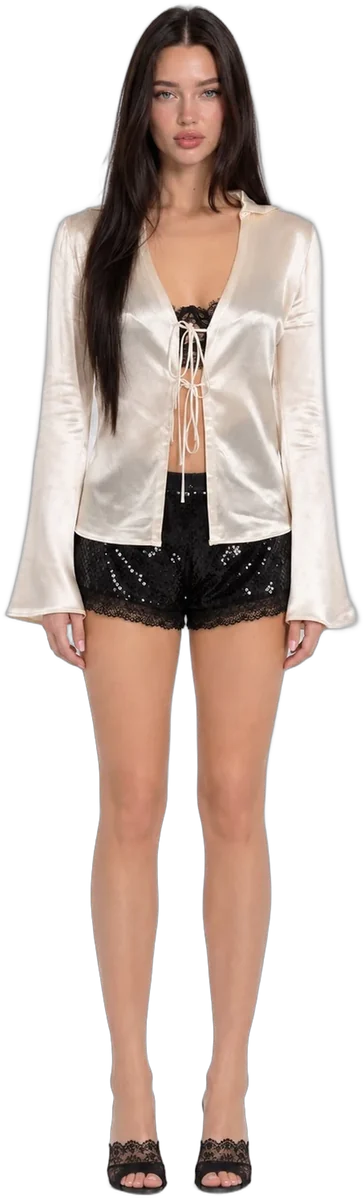
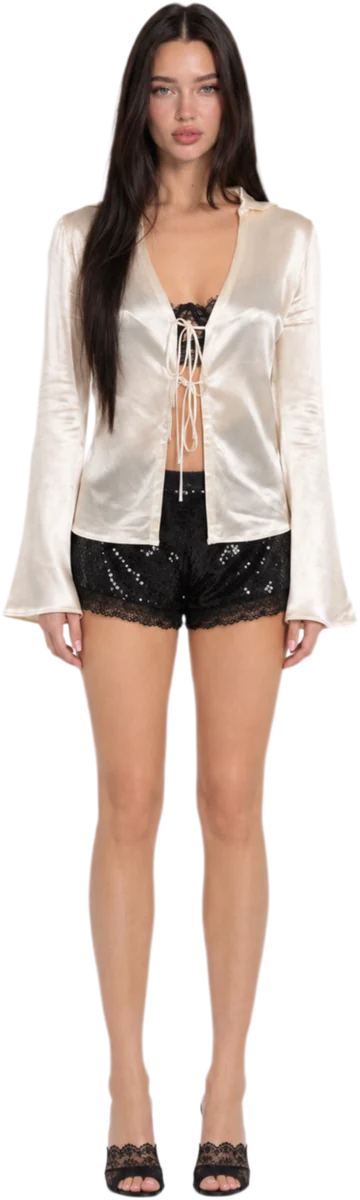
New Grey Lace Jeans and Love & Authenticity Tee; new LOOK 1 (tee + lace jeans) and four more outfits; runway gets the transparent outfit photos
Claude-Session: https://claude.ai/code/session_01S9cKy5g1AwDjzfqRU8tU8k

diff --git a/assets/catalog.js b/assets/catalog.js
@@ -36,7 +36,7 @@ window.BYMARCCC_PRODUCT_DATA = /*BEGIN-JSON*/{
   "collections": [{"key":"denim","label":"DENIM"},{"key":"tops","label":"TOPS"},{"key":"bottoms","label":"BOTTOMS"},{"key":"sales","label":"SALES"},{"key":"accessories","label":"ACCESSORIES"},{"key":"looks","label":"LOOKBOOK"}],
   "womenCollections": [{"key":"tops","label":"TOPS"},{"key":"bottoms","label":"BOTTOMS"},{"key":"accessories","label":"ACCESSORIES"},{"key":"sales","label":"SALES"},{"key":"looks","label":"LOOKBOOK"}],
   "customizeCollections": [{"key":"bags","label":"BAGS"}],
-  "womenFeatured": {"tops":["w-burgundy-baby-top","w-delulu-blazer-2","w-satin-shirt","w-sporty-top-ivory","w-black-windbreaker","w-burgundy-burberry-windbreaker","w-tiramisu-hoodie-black","w-tiramisu-hoodie-burgundy","w-black-logo-windbreaker","w-white-logo-windbreaker","w-burgundy-long-sleeve","w-logo-vest","w-tiramisu-hoodie-white","w-tiramisu-hoodie-grey","w-skyblue-hoodie","w-burgundy-zip-hoodie","w-tiramisu-hoodie-pink","w-sporty-top","w-white-baby-top","w-blue-zip-hoodie","w-hot-pink-zip-hoodie","w-red-zip-hoodie","w-pink-zip-hoodie","w-muse-blazer","w-hg-delulu-blazer","w-fuchsia-baby-top","w-blue-baby-top","w-red-baby-top","w-white-baby-top-1","w-pink-baby-top","w-no-bra-tank-top"],"bottoms":["w-sequin-lace-short","w-logo-leggings","w-mini-bag-jeans-blackwash-black","w-mini-bag-jeans-burgundy","w-lace-jean","w-transparent-jean","w-black-wind-pants","w-burgundy-wind-pants","w-grey-pants","w-pink-pants","w-logo-flare-jeans","w-logo-flare-leggings","w-walking-art-black-jeans","w-mini-bag-jeans-blackwash-burgundy","w-mini-bag-jeans-black","w-red-pants","w-black-pants"],"jackets":["w-white-logo-windbreaker","w-black-logo-windbreaker"],"accessories":["w-white-shoulder-bag","w-burgundy-shoulder-bag"]},
+  "womenFeatured": {"tops":["w-love-authenticity-tee","w-burgundy-baby-top","w-delulu-blazer-2","w-satin-shirt","w-sporty-top-ivory","w-black-windbreaker","w-burgundy-burberry-windbreaker","w-tiramisu-hoodie-black","w-tiramisu-hoodie-burgundy","w-black-logo-windbreaker","w-white-logo-windbreaker","w-burgundy-long-sleeve","w-logo-vest","w-tiramisu-hoodie-white","w-tiramisu-hoodie-grey","w-skyblue-hoodie","w-burgundy-zip-hoodie","w-tiramisu-hoodie-pink","w-sporty-top","w-white-baby-top","w-blue-zip-hoodie","w-hot-pink-zip-hoodie","w-red-zip-hoodie","w-pink-zip-hoodie","w-muse-blazer","w-hg-delulu-blazer","w-fuchsia-baby-top","w-blue-baby-top","w-red-baby-top","w-white-baby-top-1","w-pink-baby-top","w-no-bra-tank-top"],"bottoms":["w-sequin-lace-short","w-logo-leggings","w-mini-bag-jeans-blackwash-black","w-mini-bag-jeans-burgundy","w-lace-jean","w-transparent-jean","w-black-wind-pants","w-burgundy-wind-pants","w-grey-pants","w-pink-pants","w-logo-flare-jeans","w-logo-flare-leggings","w-walking-art-black-jeans","w-mini-bag-jeans-blackwash-burgundy","w-mini-bag-jeans-black","w-red-pants","w-black-pants"],"jackets":["w-white-logo-windbreaker","w-black-logo-windbreaker"],"accessories":["w-white-shoulder-bag","w-burgundy-shoulder-bag"]},
   "tryOnGarments": {"black-baby-top":{"type":"womens_baby_top","label":"women's black baby top: short, fitted, short-sleeve black cotton top with a fine rib, round neck; the hem sits slightly above the belly button","category":"tops","colour":"black","views":{"front":"assets/try-on/black-baby-top/garment.png"},"fitReference":"assets/try-on/black-baby-top/fit-reference.jpg","print":{"placement":"centred on the chest, a little below the neckline","width":0.3}}},
   "products": {
 
@@ -970,6 +970,11 @@ window.BYMARCCC_PRODUCT_DATA = /*BEGIN-JSON*/{
     "look-w14-art-set": {"gender": "women", "id": "bymarccc:look-w14-art-set", "title": "LOOK 15 — ART SET", "price": 700, "salePrice": 600, "currency": "RON", "cut": "Baby top + Art jeans", "collections": ["looks"], "details": ["Art Black Baby Top + Art Jean", "100% organic cotton", "700 RON apart, 600 RON as a look", "All clothing is custom made."], "description": "The Art Black Baby Top and the Art Jean together. You pay less than buying them apart.", "unavailable": [], "colours": [{"id": "black", "name": "Black", "hex": "#111111"}], "chart": ["XS-S", "M-L"], "gallery": [{"src":"assets/img/gallery/w-art-jean-front-a411b6ad.webp","w":1024,"h":1534}], "lookNo": 15, "lookCover": {"src":"assets/img/gallery/w-art-jean-front-a411b6ad.webp","w":1024,"h":1534}, "lookItems": ["w-art-jean", "w-white-baby-top"], "lookNames": {"w-white-baby-top": "Art Black Baby Top"}, "needsBody": true},
     "look-w15-crochet-set": {"gender": "women", "id": "bymarccc:look-w15-crochet-set", "title": "LOOK 16 — CROCHET SET", "price": 700, "salePrice": 600, "currency": "RON", "cut": "Baby top + Crochet jeans", "collections": ["looks"], "details": ["Black Baby Top + Crochet Jeans", "100% organic cotton", "700 RON apart, 600 RON as a look", "All clothing is custom made."], "description": "The Black Baby Top and the Crochet Jeans together. You pay less than buying them apart.", "unavailable": [], "colours": [{"id": "black", "name": "Black", "hex": "#111111"}], "chart": ["XS-S", "M-L"], "gallery": [{"src":"assets/img/gallery/w-crochet-jeans-new-1-fa9b1147.webp","w":1024,"h":1534},{"src":"assets/img/gallery/w-crochet-jeans-new-2-ba4922e5.webp","w":1024,"h":1534},{"src":"assets/img/gallery/w-crochet-jeans-new-3-52e6775b.webp","w":1024,"h":1534},{"src":"assets/img/gallery/w-crochet-jeans-new-4-4d833db9.webp","w":1024,"h":1534},{"src":"assets/img/gallery/w-crochet-jeans-new-5-1ebdc22b.webp","w":1024,"h":1534}], "lookNo": 16, "lookCover": {"src":"assets/img/gallery/w-crochet-jeans-new-1-fa9b1147.webp","w":1024,"h":1534}, "lookItems": ["w-crochet-jeans", "w-white-baby-top"], "needsBody": true},
     "look-w16-satin-set": {"gender": "women", "id": "bymarccc:look-w16-satin-set", "title": "LOOK 1 — SATIN SET", "price": 650, "salePrice": 550, "currency": "RON", "cut": "Satin shirt + Sequin lace shorts", "collections": ["looks"], "details": ["Satin Shirt + Sequin Lace Short", "650 RON apart, 550 RON as a look", "All clothing is custom made."], "description": "The Satin Shirt and the Sequin Lace Short together. You pay less than buying them apart.", "unavailable": [], "colours": [{"id": "ivory", "name": "Ivory", "hex": "#efe6d3"}], "chart": ["XS-S", "M-L"], "gallery": [{"src":"assets/img/gallery/w-satin-shirt-3-51765c49.webp","w":1024,"h":1534},{"src":"assets/img/gallery/w-satin-shirt-1-5c78e8d9.webp","w":1024,"h":1534},{"src":"assets/img/gallery/w-satin-shirt-5-af82fd7c.webp","w":1024,"h":1534}], "lookNo": 1, "lookCover": {"src":"assets/img/gallery/w-satin-shirt-3-51765c49.webp","w":1024,"h":1534}, "lookItems": ["w-satin-shirt", "w-sequin-lace-short"], "needsBody": true},
+    "look-w18-love-authenticity-set": {"gender": "women", "id": "bymarccc:look-w18-love-authenticity-set", "title": "LOOK 99 — LOVE & AUTHENTICITY SET", "price": 750, "salePrice": 650, "currency": "RON", "cut": "Love & Authenticity Tee + Grey Lace Jeans", "collections": ["looks"], "details": ["Love & Authenticity Tee + Grey Lace Jeans", "750 RON apart, 650 RON as a look", "All clothing is custom made."], "description": "The Love & Authenticity Tee and the Grey Lace Jeans together. You pay less than buying them apart.", "unavailable": [], "colours": [{"id": "grey", "name": "Grey", "hex": "#8a8a8a"}], "chart": ["XS-S", "M-L"], "gallery": [{"src": "assets/img/gallery/w-grey-lace-jeans-1-d728b88c.webp", "w": 1024, "h": 1534}, {"src": "assets/img/gallery/w-grey-lace-jeans-2-04087018.webp", "w": 1024, "h": 1534}], "lookNo": 99, "lookCover": {"src": "assets/img/gallery/w-grey-lace-jeans-1-d728b88c.webp", "w": 1024, "h": 1534}, "lookItems": ["w-love-authenticity-tee", "w-grey-lace-jean"], "needsBody": true},
+    "look-w19-black-leggings-set": {"gender": "women", "id": "bymarccc:look-w19-black-leggings-set", "title": "LOOK 99 — BLACK LEGGINGS SET", "price": 500, "salePrice": 400, "currency": "RON", "cut": "Black Tee + Logo Leggings", "collections": ["looks"], "details": ["Black Tee + Logo Leggings", "500 RON apart, 400 RON as a look", "All clothing is custom made."], "description": "The Black Tee and the Logo Leggings together. You pay less than buying them apart.", "unavailable": [], "colours": [{"id": "black", "name": "Black", "hex": "#111111"}], "chart": ["XS-S", "M-L"], "gallery": [{"src": "assets/img/gallery/look-w19-black-leggings-cover-af71b04d.webp", "w": 1024, "h": 1534}, {"src": "assets/img/gallery/w-logo-leggings-new-1-4748665d.webp", "w": 1024, "h": 1534}, {"src": "assets/img/gallery/w-logo-leggings-side-9f830748.webp", "w": 1024, "h": 1534}], "lookNo": 99, "lookCover": {"src": "assets/img/gallery/look-w19-black-leggings-cover-af71b04d.webp", "w": 1024, "h": 1534}, "lookItems": ["w-black-tee", "w-logo-leggings"], "needsBody": true, "lookDesign": {"w-black-tee": "Logo"}, "lookNames": {"w-black-tee": "Logo Black Tee"}},
+    "look-w20-walking-art-blue-set": {"gender": "women", "id": "bymarccc:look-w20-walking-art-blue-set", "title": "LOOK 99 — WALKING ART BLUE SET", "price": 649, "salePrice": 549, "currency": "RON", "cut": "White Baby Top + Walking Art Blue Jeans", "collections": ["looks"], "details": ["White Baby Top + Walking Art Blue Jeans", "649 RON apart, 549 RON as a look", "All clothing is custom made."], "description": "The White Baby Top and the Walking Art Blue Jeans together. You pay less than buying them apart.", "unavailable": [], "colours": [{"id": "blue", "name": "Blue", "hex": "#3b6fb6"}], "chart": ["XS-S", "M-L"], "gallery": [{"src": "assets/img/gallery/look-w20-walking-art-blue-cover-94d4c30a.webp", "w": 1024, "h": 1534}, {"src": "assets/img/gallery/w-walking-art-blue-1-88c048e1.webp", "w": 1024, "h": 1534}, {"src": "assets/img/gallery/w-walking-art-blue-2-54c0c482.webp", "w": 1024, "h": 1534}], "lookNo": 99, "lookCover": {"src": "assets/img/gallery/look-w20-walking-art-blue-cover-94d4c30a.webp", "w": 1024, "h": 1534}, "lookItems": ["w-white-baby-top-1", "w-walking-art-blue-jeans"], "needsBody": true, "lookDesign": {"w-white-baby-top-1": "Art"}, "lookNames": {"w-white-baby-top-1": "Art White Baby Top"}},
+    "look-w21-ivory-sporty-set": {"gender": "women", "id": "bymarccc:look-w21-ivory-sporty-set", "title": "LOOK 99 — IVORY SPORTY SET", "price": 550, "salePrice": 450, "currency": "RON", "cut": "Sporty Jacket + Logo Flare Leggings", "collections": ["looks"], "details": ["Sporty Jacket + Logo Flare Leggings", "550 RON apart, 450 RON as a look", "All clothing is custom made."], "description": "The Sporty Jacket and the Logo Flare Leggings together. You pay less than buying them apart.", "unavailable": [], "colours": [{"id": "ivory", "name": "Ivory", "hex": "#efe6d3"}], "chart": ["XS-S", "M-L"], "gallery": [{"src": "assets/img/gallery/look-w21-ivory-sporty-cover-d75fb23d.webp", "w": 1024, "h": 1534}, {"src": "assets/img/gallery/w-sporty-ivory-new-1-7898d2a5.webp", "w": 1024, "h": 1534}, {"src": "assets/img/gallery/w-logo-flare-jeans-1-452bb0b9.webp", "w": 1024, "h": 1534}], "lookNo": 99, "lookCover": {"src": "assets/img/gallery/look-w21-ivory-sporty-cover-d75fb23d.webp", "w": 1024, "h": 1534}, "lookItems": ["w-sporty-top-ivory", "w-logo-flare-jeans"], "needsBody": true},
+    "look-w22-walking-art-black-set": {"gender": "women", "id": "bymarccc:look-w22-walking-art-black-set", "title": "LOOK 99 — WALKING ART BLACK SET", "price": 649, "salePrice": 549, "currency": "RON", "cut": "White Baby Top + Walking Art Black Jeans", "collections": ["looks"], "details": ["White Baby Top + Walking Art Black Jeans", "649 RON apart, 549 RON as a look", "All clothing is custom made."], "description": "The White Baby Top and the Walking Art Black Jeans together. You pay less than buying them apart.", "unavailable": [], "colours": [{"id": "black", "name": "Black", "hex": "#111111"}], "chart": ["XS-S", "M-L"], "gallery": [{"src": "assets/img/gallery/look-w22-walking-art-black-cover-feb5fa66.webp", "w": 1024, "h": 1534}, {"src": "assets/img/gallery/w-walking-art-black-1-380cef79.webp", "w": 1024, "h": 1534}, {"src": "assets/img/gallery/w-walking-art-black-2-3cf6e2ef.webp", "w": 1024, "h": 1534}], "lookNo": 99, "lookCover": {"src": "assets/img/gallery/look-w22-walking-art-black-cover-feb5fa66.webp", "w": 1024, "h": 1534}, "lookItems": ["w-white-baby-top-1", "w-walking-art-black-jeans"], "needsBody": true, "lookDesign": {"w-white-baby-top-1": "Art"}, "lookNames": {"w-white-baby-top-1": "Art White Baby Top"}},
     "look-w13-black-wind-set": {"gender": "women", "model": {"size": "M"}, "id": "bymarccc:look-w13-black-wind-set", "title": "LOOK 13 — BLACK WIND SET", "price": 650, "currency": "RON", "cut": "Windbreaker + wind pants set", "collections": ["looks"], "details": ["The full look: Windbreaker + Wind Pants", "White piping, white alien logo", "Lightweight technical fabric", "650 RON apart, 550 RON as a look", "All clothing is custom made."], "description": "The black Windbreaker and the Wind Pants together. You pay less than buying them apart.", "unavailable": [], "colours": [{"id": "black", "name": "Black", "hex": "#111111"}], "chart": ["S", "M", "L"], "gallery": [{"src": "assets/img/gallery/w-black-windbreaker-3.webp", "w": 853, "h": 1280}, {"src": "assets/img/gallery/w-black-windbreaker-2.webp", "w": 853, "h": 1280}, {"src": "assets/img/gallery/w-black-wind-pants-7.webp", "w": 853, "h": 1280}, {"src": "assets/img/gallery/w-black-wind-pants-6.webp", "w": 853, "h": 1280}, {"src": "assets/img/gallery/w-black-windbreaker-5.webp", "w": 853, "h": 1280}, {"src": "assets/img/gallery/w-black-windbreaker-6.webp", "w": 853, "h": 1280}, {"src": "assets/img/gallery/w-black-wind-pants-4.webp", "w": 853, "h": 1280}], "salePrice": 550, "lookNo": 13, "lookCover": {"src": "assets/img/gallery/w-black-windbreaker-3.webp", "w": 853, "h": 1280}, "lookItems": ["w-black-windbreaker", "w-black-wind-pants"], "needsBody": true},
     "look-w12-hot-pink-zip-set": {"gender": "women", "model": {"size": "M"}, "id": "bymarccc:look-w12-hot-pink-zip-set", "title": "LOOK 12 — HOT PINK ZIP SET", "price": 650, "currency": "RON", "cut": "Zip hoodie + leggings", "collections": ["looks"], "details": ["The full look: Hot Pink Zip Hoodie + Logo Leggings", "Alien logo details", "100% organic cotton", "650 RON apart, 550 RON as a look", "All clothing is custom made."], "description": "The Hot Pink Zip Hoodie and the Logo Leggings together. You pay less than buying them apart.", "unavailable": [], "colours": [{"id": "hot-pink", "name": "Hot Pink", "hex": "#e0306e"}], "chart": ["S", "M", "L"], "gallery": [{"src": "assets/img/gallery/w-hot-pink-zip-hoodie-full-c73039cb.webp", "w": 1024, "h": 1536}, {"src": "assets/img/gallery/w-hot-pink-zip-hoodie-full-back-85d1c282.webp", "w": 1024, "h": 1536}, {"src": "assets/img/gallery/w-hot-pink-zip-hoodie-1-e4ceb8c3.webp", "w": 1024, "h": 1536}, {"src": "assets/img/gallery/w-hot-pink-zip-hoodie-back-c143f541.webp", "w": 1024, "h": 1536}, {"src": "assets/img/gallery/w-logo-leggings-1-5b4f227d.webp", "w": 1025, "h": 1535}, {"src": "assets/img/gallery/w-logo-leggings-2-00c24431.webp", "w": 1025, "h": 1535}], "salePrice": 550, "lookNo": 12, "lookCover": {"src": "assets/img/gallery/w-hot-pink-zip-hoodie-full-c73039cb.webp", "w": 1024, "h": 1536}, "lookItems": ["w-hot-pink-zip-hoodie", "w-logo-leggings"], "needsBody": true},
     "look-7-hot-pink-zip-set": {"gender": "men", "model": {"size": "M"}, "id": "bymarccc:look-7-hot-pink-zip-set", "title": "LOOK 7 — HOT PINK ZIP SET", "price": 850, "currency": "RON", "cut": "Zip hoodie + flare jeans", "collections": ["looks"], "details": ["The full look: Hot Pink Zip Hoodie + Black Flare Jeans", "Alien logo details", "100% organic cotton", "850 RON apart, 750 RON as a look", "All clothing is custom made."], "description": "The Hot Pink Zip Hoodie and the Black Flare Jeans together. You pay less than buying them apart.", "unavailable": [], "colours": [{"id": "hot-pink", "name": "Hot Pink", "hex": "#e0306e"}], "chart": ["S", "M", "L"], "gallery": [{"src": "assets/img/gallery/m-hot-pink-zip-hoodie-full-8dc011d0.webp", "w": 1024, "h": 1536}, {"src": "assets/img/gallery/m-hot-pink-zip-hoodie-full-back-672b12bc.webp", "w": 1024, "h": 1536}, {"src": "assets/img/gallery/m-hot-pink-zip-hoodie-1-aae4f7c9.webp", "w": 1024, "h": 1536}, {"src": "assets/img/gallery/m-hot-pink-zip-hoodie-back-49c57264.webp", "w": 1024, "h": 1536}, {"src": "assets/img/gallery/hot-pink-zip-hoodie-flat-front-2e708561.webp", "w": 1025, "h": 1535}, {"src": "assets/img/gallery/hot-pink-zip-hoodie-flat-back-03cc2509.webp", "w": 1025, "h": 1535}], "salePrice": 750, "lookNo": 7, "lookCover": {"src": "assets/img/gallery/m-hot-pink-zip-hoodie-full-8dc011d0.webp", "w": 1024, "h": 1536}, "lookItems": ["m-hot-pink-zip-hoodie", "m-black-flare-jeans"], "needsBody": true},
@@ -989,6 +994,8 @@ window.BYMARCCC_PRODUCT_DATA = /*BEGIN-JSON*/{
     "w-mini-bag-jeans-blackwash-burgundy": {"gender": "women", "id": "bymarccc:mini-bag-jeans-blackwash-burgundy", "title": "BURGUNDY MINI BAG JEANS", "price": 450, "currency": "RON", "cut": "Wide leg, low waist", "collections": ["bottoms"], "details": ["Wide leg, low waist, washed black denim", "Comes with a burgundy mini charm bag", "All clothing is custom made.", "100% organic cotton"], "description": "Washed black wide low-waist jeans with a burgundy mini charm bag.", "unavailable": [], "colours": [{"id": "burgundy-charm", "name": "Black denim · burgundy charm", "hex": "#6B2535"}], "chart": ["34", "36", "38", "40", "42"], "gallery": [{"src": "assets/img/gallery/w-mini-bag-jeans-blackwash-burgundy-1-09dd70e5.webp", "w": 1025, "h": 1535}, {"src": "assets/img/gallery/w-mini-bag-jeans-blackwash-burgundy-2-2c970493.webp", "w": 1025, "h": 1535}, {"src": "assets/img/gallery/w-mini-bag-jeans-blackwash-burgundy-3-8dee7b92.webp", "w": 1025, "h": 1535}, {"src": "assets/img/gallery/w-mini-bag-jeans-blackwash-burgundy-4-aa153276.webp", "w": 1025, "h": 1535}, {"src": "assets/img/gallery/w-mini-bag-jeans-blackwash-burgundy-5-75b76f55.webp", "w": 1025, "h": 1535}, {"src": "assets/img/gallery/w-mini-bag-jeans-blackwash-burgundy-6-0cc1142a.webp", "w": 1025, "h": 1535}], "needsBody": true, "fullBody": 2},
     "look-w8-lace-set": {"gender": "women", "model": {"size": "M"}, "id": "bymarccc:look-w8-lace-set", "title": "LOOK 10 — LACE SET", "price": 750, "salePrice": 650, "currency": "RON", "cut": "Lace jeans + baby top", "collections": ["looks"], "details": ["Lace Jeans + Muse Baby Top", "100% organic cotton", "750 RON apart, 650 RON as a look", "All clothing is custom made."], "description": "The Lace Jeans and the Muse Baby Top together. You pay less than buying them apart.", "unavailable": [], "colours": [{"id": "black", "name": "Black", "hex": "#111111"}], "chart": ["S", "M", "L"], "gallery": [{"src": "assets/img/gallery/w-lace-jeans-2-a8c69f2c.webp", "w": 1024, "h": 1534}, {"src": "assets/img/gallery/w-lace-jeans-1-618631d1.webp", "w": 1024, "h": 1534}, {"src": "assets/img/gallery/w-lace-jeans-3-cdefbab3.webp", "w": 1024, "h": 1534}, {"src": "assets/img/gallery/w-lace-jeans-4-6437e7f5.webp", "w": 1024, "h": 1534, "fit": "cover"}, {"src": "assets/img/gallery/w-lace-jeans-5-7af2d0c4.webp", "w": 1024, "h": 1534}], "lookNo": 10, "lookCover": {"src": "assets/img/gallery/w-lace-jeans-2-a8c69f2c.webp", "w": 1024, "h": 1534}, "lookItems": ["w-lace-jean", "w-white-baby-top"], "lookNames": {"w-white-baby-top": "Muse Baby Top"}, "lookDesign": {"w-white-baby-top": "Muse"}, "needsBody": true},
     "w-lace-jean": {"gender": "women", "id": "shopify:lace-jean", "title": "Lace Jeans", "price": 500, "currency": "RON", "cut": "Relaxed straight", "collections": ["bottoms"], "details": ["Relaxed straight fit", "Black lace panels on the front", "Washed black denim, alien patch on the back", "100% organic cotton denim", "All clothing is custom made."], "description": "Washed black relaxed jeans with sheer black lace panels down the front and an alien patch on the back.", "unavailable": [], "colours": [{"id": "default", "name": "As shown", "hex": "#dcdcd8"}], "chart": ["34", "36", "38", "40", "42"], "gallery": [{"src": "assets/img/gallery/w-lace-jeans-2-a8c69f2c.webp", "w": 1024, "h": 1534}, {"src": "assets/img/gallery/w-lace-jeans-1-618631d1.webp", "w": 1024, "h": 1534}, {"src": "assets/img/gallery/w-lace-jeans-3-cdefbab3.webp", "w": 1024, "h": 1534}, {"src": "assets/img/gallery/w-lace-jeans-4-6437e7f5.webp", "w": 1024, "h": 1534, "fit": "cover"}, {"src": "assets/img/gallery/w-lace-jeans-5-7af2d0c4.webp", "w": 1024, "h": 1534}], "needsBody": true, "model": {"size": "36"}, "fullBody": 0},
+    "w-grey-lace-jean": {"gender": "women", "id": "bymarccc:w-grey-lace-jean", "title": "Grey Lace Jeans", "price": 500, "currency": "RON", "cut": "Relaxed straight", "collections": ["bottoms"], "details": ["Relaxed straight fit", "Lace panels on the front", "Washed grey denim, alien patch on the back", "All clothing is custom made."], "description": "Washed grey relaxed jeans with sheer lace panels down the front and an alien patch on the back.", "unavailable": [], "colours": [{"id": "default", "name": "As shown", "hex": "#dcdcd8"}], "chart": ["34", "36", "38", "40", "42"], "gallery": [{"src": "assets/img/gallery/w-grey-lace-jeans-1-d728b88c.webp", "w": 1024, "h": 1534}, {"src": "assets/img/gallery/w-grey-lace-jeans-2-04087018.webp", "w": 1024, "h": 1534}, {"src": "assets/img/gallery/w-grey-lace-jeans-3-b363f923.webp", "w": 1024, "h": 1534}, {"src": "assets/img/gallery/w-grey-lace-jeans-4-649da520.webp", "w": 1024, "h": 1534}], "needsBody": true, "fullBody": 0},
+    "w-love-authenticity-tee": {"gender": "women", "id": "bymarccc:w-love-authenticity-tee", "title": "Love & Authenticity Tee", "price": 250, "currency": "RON", "cut": "Womenswear", "collections": ["tops"], "details": ["Love & Authenticity print on the chest", "All clothing is custom made."], "description": "Grey baby tee with the Love & Authenticity print by bymarccc.", "unavailable": [], "colours": [{"id": "grey", "name": "Grey", "hex": "#7a7a7a"}], "chart": ["XS-S", "M-L"], "gallery": [{"src": "assets/img/gallery/w-love-authenticity-tee-1-13f7c7e8.webp", "w": 1024, "h": 1534}, {"src": "assets/img/gallery/w-grey-lace-jeans-1-d728b88c.webp", "w": 1024, "h": 1534}], "fullBody": 1},
     "w-transparent-jean": {"gender": "women", "id": "shopify:transparent-jean", "title": "Transparent Jean", "price": 500, "currency": "RON", "cut": "Womenswear", "collections": ["bottoms", "sales"], "details": ["Relaxed straight fit", "Sheer panels on the front", "100% organic cotton denim", "All clothing is custom made."], "description": "Relaxed fit jeans with transparent material.", "unavailable": [], "colours": [{"id": "default", "name": "As shown", "hex": "#dcdcd8"}], "chart": ["36", "40"], "gallery": [{"src": "assets/img/gallery/w-transparent-jean-1-4a8ff990.webp", "w": 1024, "h": 1534}, {"src": "assets/img/gallery/w-transparent-jean-2-d7187d1c.webp", "w": 1024, "h": 1534}, {"src": "assets/img/gallery/w-transparent-jean-3-d89930c4.webp", "w": 1024, "h": 1534}, {"src": "assets/img/gallery/w-transparent-jean-4-ae73a176.webp", "w": 1024, "h": 1534}, {"src": "assets/img/gallery/w-transparent-jean-5-ef40641f.webp", "w": 1024, "h": 1534, "fit": "cover"}], "needsBody": true, "model": {"size": "36"}, "fullBody": 0},
     "m-pink-zip-hoodie": {"gender": "men", "model": {"size": "M"}, "id": "bymarccc:pink-zip-hoodie", "title": "PINK ZIP HOODIE", "price": 400, "currency": "RON", "cut": "Oversized zip hoodie", "collections": ["tops"], "details": ["Oversized fit with a double zip", "Silver studs on the sleeve", "Silver alien logo on the chest", "Alien logo on the back of the hood", "Front pocket", "Pink · 100% organic cotton", "All clothing is custom made."], "description": "A soft, oversized pink zip hoodie in 100% organic cotton. Silver studs on the sleeve, a silver alien logo on the chest and another on the back of the hood.", "unavailable": [], "colours": [{"id": "pink", "name": "Pink", "hex": "#f2c4cf"}], "chart": ["S", "M", "L"], "gallery": [{"src": "assets/img/gallery/m-pink-zip-hoodie-v2-1-f9ede994.webp", "w": 1024, "h": 1534}, {"src": "assets/img/gallery/m-pink-zip-hoodie-v2-2-f8bc5754.webp", "w": 1024, "h": 1534}, {"src": "assets/img/gallery/m-pink-zip-hoodie-v2-3-44d8f3df.webp", "w": 1024, "h": 1534}, {"src": "assets/img/gallery/m-pink-zip-hoodie-v2-4-4e016b98.webp", "w": 1024, "h": 1534}, {"src": "assets/img/gallery/m-pink-zip-hoodie-back-bb118ef0.webp", "w": 1024, "h": 1534}, {"src": "assets/img/gallery/m-pink-zip-hoodie-backfull-49be76be.webp", "w": 1024, "h": 1534}, {"src": "assets/img/gallery/pink-zip-hoodie-flat-front-77a70ccb.webp", "w": 1025, "h": 1535}, {"src": "assets/img/gallery/pink-zip-hoodie-flat-back-eea34c65.webp", "w": 1025, "h": 1535}, {"src": "assets/img/gallery/pink-zip-hoodie-sleeve-44c7b817.webp", "w": 1025, "h": 1535}], "mockup": "assets/img/gallery/m-pink-zip-hoodie-v2-1-f9ede994.webp", "fullBody": 2},
     "w-pink-zip-hoodie": {"gender": "women", "model": {"size": "M"}, "id": "bymarccc:w-pink-zip-hoodie", "title": "PINK ZIP HOODIE", "price": 400, "currency": "RON", "cut": "Cropped zip hoodie", "collections": ["tops"], "details": ["Cropped, relaxed fit with a double zip", "Silver studs on the sleeve", "Silver alien logo on the chest", "Alien logo on the back of the hood", "Front pocket", "Pink · 100% organic cotton", "All clothing is custom made."], "description": "A soft pink zip hoodie in 100% organic cotton. Silver studs on the sleeve, a silver alien logo on the chest and another on the back of the hood.", "unavailable": [], "colours": [{"id": "pink", "name": "Pink", "hex": "#f2c4cf"}], "chart": ["S", "M", "L"], "gallery": [{"src": "assets/img/gallery/w-pink-zip-hoodie-1-a8f62fcd.webp", "w": 1024, "h": 1534}, {"src": "assets/img/gallery/w-pink-zip-hoodie-2-9051f015.webp", "w": 1024, "h": 1534}, {"src": "assets/img/gallery/w-pink-zip-hoodie-3-243d63d9.webp", "w": 1024, "h": 1534}, {"src": "assets/img/gallery/w-pink-zip-hoodie-4-c9929e3e.webp", "w": 1024, "h": 1534}, {"src": "assets/img/gallery/w-pink-zip-hoodie-back-d835071f.webp", "w": 1024, "h": 1534}, {"src": "assets/img/gallery/w-pink-set-backfull-8ab91418.webp", "w": 1024, "h": 1534}, {"src": "assets/img/gallery/pink-zip-hoodie-flat-front-77a70ccb.webp", "w": 1025, "h": 1535}, {"src": "assets/img/gallery/pink-zip-hoodie-flat-back-eea34c65.webp", "w": 1025, "h": 1535}, {"src": "assets/img/gallery/pink-zip-hoodie-sleeve-44c7b817.webp", "w": 1025, "h": 1535}], "mockup": "assets/img/gallery/w-pink-zip-hoodie-1-a8f62fcd.webp", "fullBody": 2},
@@ -2753,7 +2760,7 @@ window.BYMARCCC_PRODUCT_DATA = /*BEGIN-JSON*/{
     p.lookNo = i + 1;
     p.title = String(p.title || '').replace(/^LOOK\s*\d+/i, `LOOK ${i + 1}`);
   });
-  const WOMEN_LOOK_ORDER = ['look-w16-satin-set', 'look-w1-burgundy-baby-wind-set', 'look-w1-logo-set', 'look-w2-blue-zip-set', 'look-w3-delulu-blazer-set', 'look-w3-sporty-set', 'look-w4-burgundy-charm-set', 'look-w5-black-charm-set', 'look-w7-muse-blazer-set', 'look-w6-black-zip-set', 'look-w7-grey-zip-set', 'look-w8-lace-set', 'look-w11-red-zip-set', 'look-w12-hot-pink-zip-set', 'look-w13-black-wind-set', 'look-w14-art-set', 'look-w15-crochet-set'];
+  const WOMEN_LOOK_ORDER = ['look-w18-love-authenticity-set', 'look-w16-satin-set', 'look-w1-burgundy-baby-wind-set', 'look-w1-logo-set', 'look-w2-blue-zip-set', 'look-w3-delulu-blazer-set', 'look-w3-sporty-set', 'look-w4-burgundy-charm-set', 'look-w5-black-charm-set', 'look-w7-muse-blazer-set', 'look-w6-black-zip-set', 'look-w7-grey-zip-set', 'look-w8-lace-set', 'look-w11-red-zip-set', 'look-w12-hot-pink-zip-set', 'look-w13-black-wind-set', 'look-w14-art-set', 'look-w15-crochet-set', 'look-w19-black-leggings-set', 'look-w20-walking-art-blue-set', 'look-w21-ivory-sporty-set', 'look-w22-walking-art-black-set'];
   WOMEN_LOOK_ORDER.forEach((key, i) => {
     const p = CATALOG[key];
     if (!p) return;

diff --git a/assets/lookbook-runway.js b/assets/lookbook-runway.js
@@ -10,8 +10,9 @@
   if (window.BYM_RUNWAY) return;
 
   // look key -> width / height of its cut-out (a look shows up here only once its cut-out exists)
-  var CUT = {"look-2-tech-set":0.3308,"look-w14-art-set":0.2683,"look-w15-crochet-set":0.2692,"look-w16-satin-set":0.3033,"look-w13-black-wind-set":0.3375,"look-w12-hot-pink-zip-set":0.3292,"look-7-hot-pink-zip-set":0.3317,"look-w11-red-zip-set":0.3267,"look-6-red-zip-set":0.3467,"look-w3-delulu-blazer-set":0.2817,"look-w7-muse-blazer-set":0.285,"look-w8-lace-set":0.2633,"look-w5-black-charm-set":0.2733,"look-w6-black-zip-set":0.3217,"look-w7-grey-zip-set":0.3325,"look-w4-burgundy-charm-set":0.2658,"look-w3-sporty-set":0.4325,"look-3-pink-zip-set":0.3525,"look-4-black-zip-set":0.3533,"look-5-grey-zip-set":0.3525,"look-2-blue-zip-set":0.3342,"look-w2-blue-zip-set":0.3392,"look-1-tech-set":0.3492,"look-w1-logo-set":0.3433,"look-w1-burgundy-baby-wind-set":0.2758};
+  var CUT = {"look-2-tech-set":0.3308,"look-w14-art-set":0.2683,"look-w15-crochet-set":0.2692,"look-w16-satin-set":0.3,"look-w13-black-wind-set":0.3375,"look-w12-hot-pink-zip-set":0.3292,"look-7-hot-pink-zip-set":0.3317,"look-w11-red-zip-set":0.3267,"look-6-red-zip-set":0.3467,"look-w3-delulu-blazer-set":0.2817,"look-w7-muse-blazer-set":0.285,"look-w8-lace-set":0.2633,"look-w5-black-charm-set":0.2733,"look-w6-black-zip-set":0.3217,"look-w7-grey-zip-set":0.3325,"look-w4-burgundy-charm-set":0.2658,"look-w3-sporty-set":0.4325,"look-3-pink-zip-set":0.3525,"look-4-black-zip-set":0.3533,"look-5-grey-zip-set":0.3525,"look-2-blue-zip-set":0.3342,"look-w2-blue-zip-set":0.3392,"look-1-tech-set":0.3492,"look-w1-logo-set":0.3433,"look-w1-burgundy-baby-wind-set":0.2758,"look-w19-black-leggings-set":0.27,"look-w20-walking-art-blue-set":0.2733,"look-w21-ivory-sporty-set":0.2667,"look-w22-walking-art-black-set":0.2708,"look-w18-love-authenticity-set":0.2842};
   var DIR = 'assets/img/lookbook-cut/';
+  var CUTV = { 'look-w16-satin-set': 2 };   // cut-outs that were replaced by a new photo: a version number so phones drop the old cached file
   var PHONE = '(max-width: 899px)';
 
   var CSS = [
@@ -88,7 +89,7 @@
     var els = L.map(function (x, i) {
       var b = document.createElement('div'); b.className = 'lbr__m'; b.setAttribute('role', 'button'); b.tabIndex = 0;
       b.setAttribute('aria-label', x.p.title);
-      var im = new Image(); im.alt = ''; im.decoding = 'async'; im.draggable = false; if (i > 3) im.loading = 'lazy'; im.src = DIR + x.key + '.webp';
+      var im = new Image(); im.alt = ''; im.decoding = 'async'; im.draggable = false; if (i > 3) im.loading = 'lazy'; im.src = DIR + x.key + '.webp' + (CUTV[x.key] ? '?v=' + CUTV[x.key] : '');
       b.appendChild(im); stage.appendChild(b);
       b.addEventListener('click', function () { if (moved) return; if (i === idxOf(pos)) go('bymarccc-product.html?p=' + x.key); else snapTo(Math.round(pos) + wrapD(i - pos)); });
       b.addEventListener('keydown', function (e) { if (e.key === 'Enter') go('bymarccc-product.html?p=' + x.key); });

diff --git a/index.html b/index.html
@@ -1382,7 +1382,7 @@
 </style>
 <script src="/assets/catalog.js?v=20261114rail"></script>
 <script src="/assets/women-sale-rail.js?v=32" defer></script>
-<script src="/assets/lookbook-runway.js?v=4" defer></script>
+<script src="/assets/lookbook-runway.js?v=6" defer></script>
 <script>
 (() => {
   'use strict';
